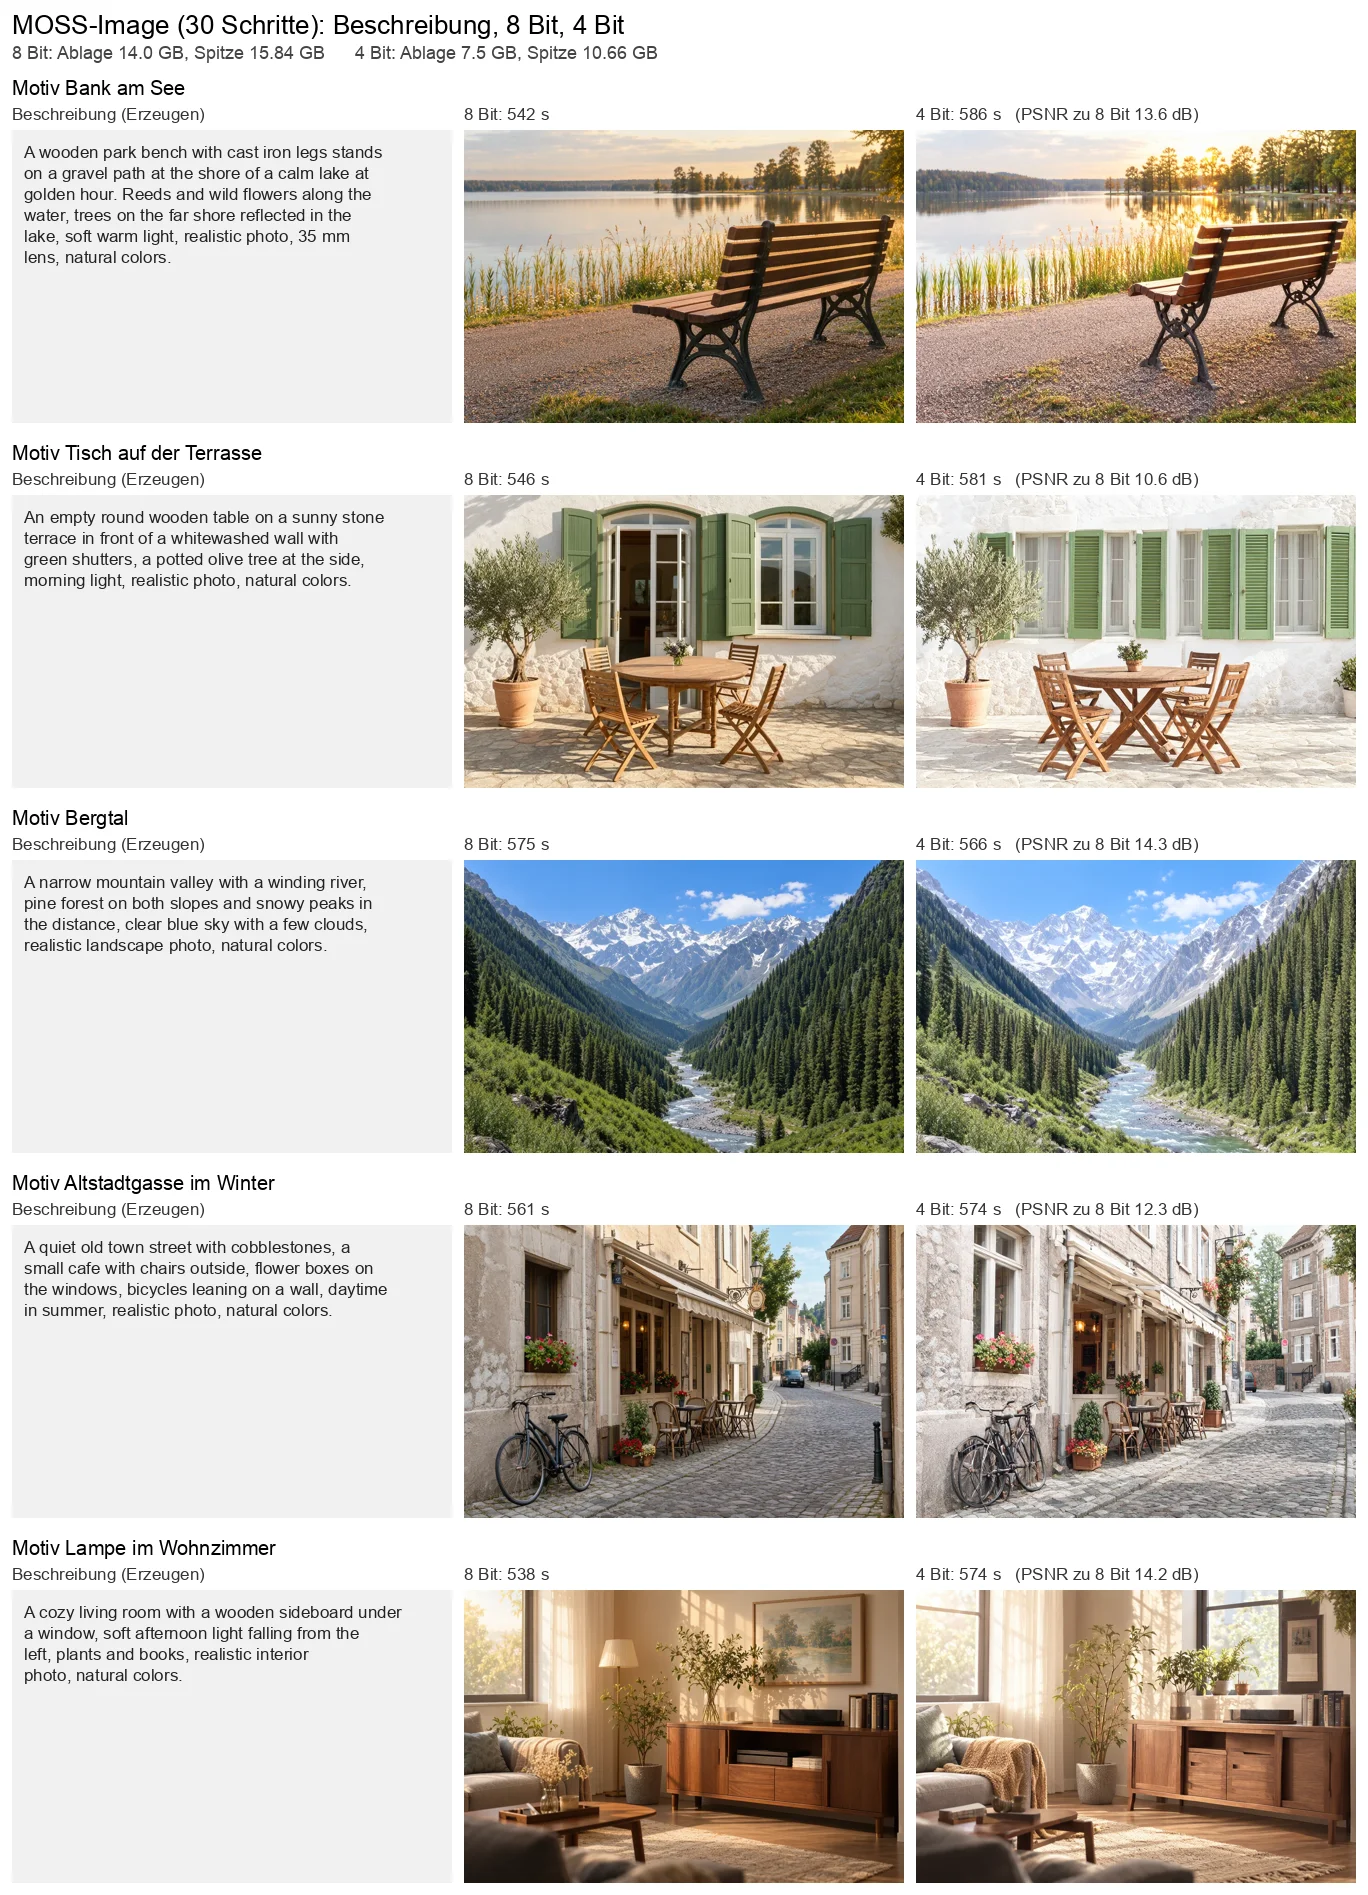
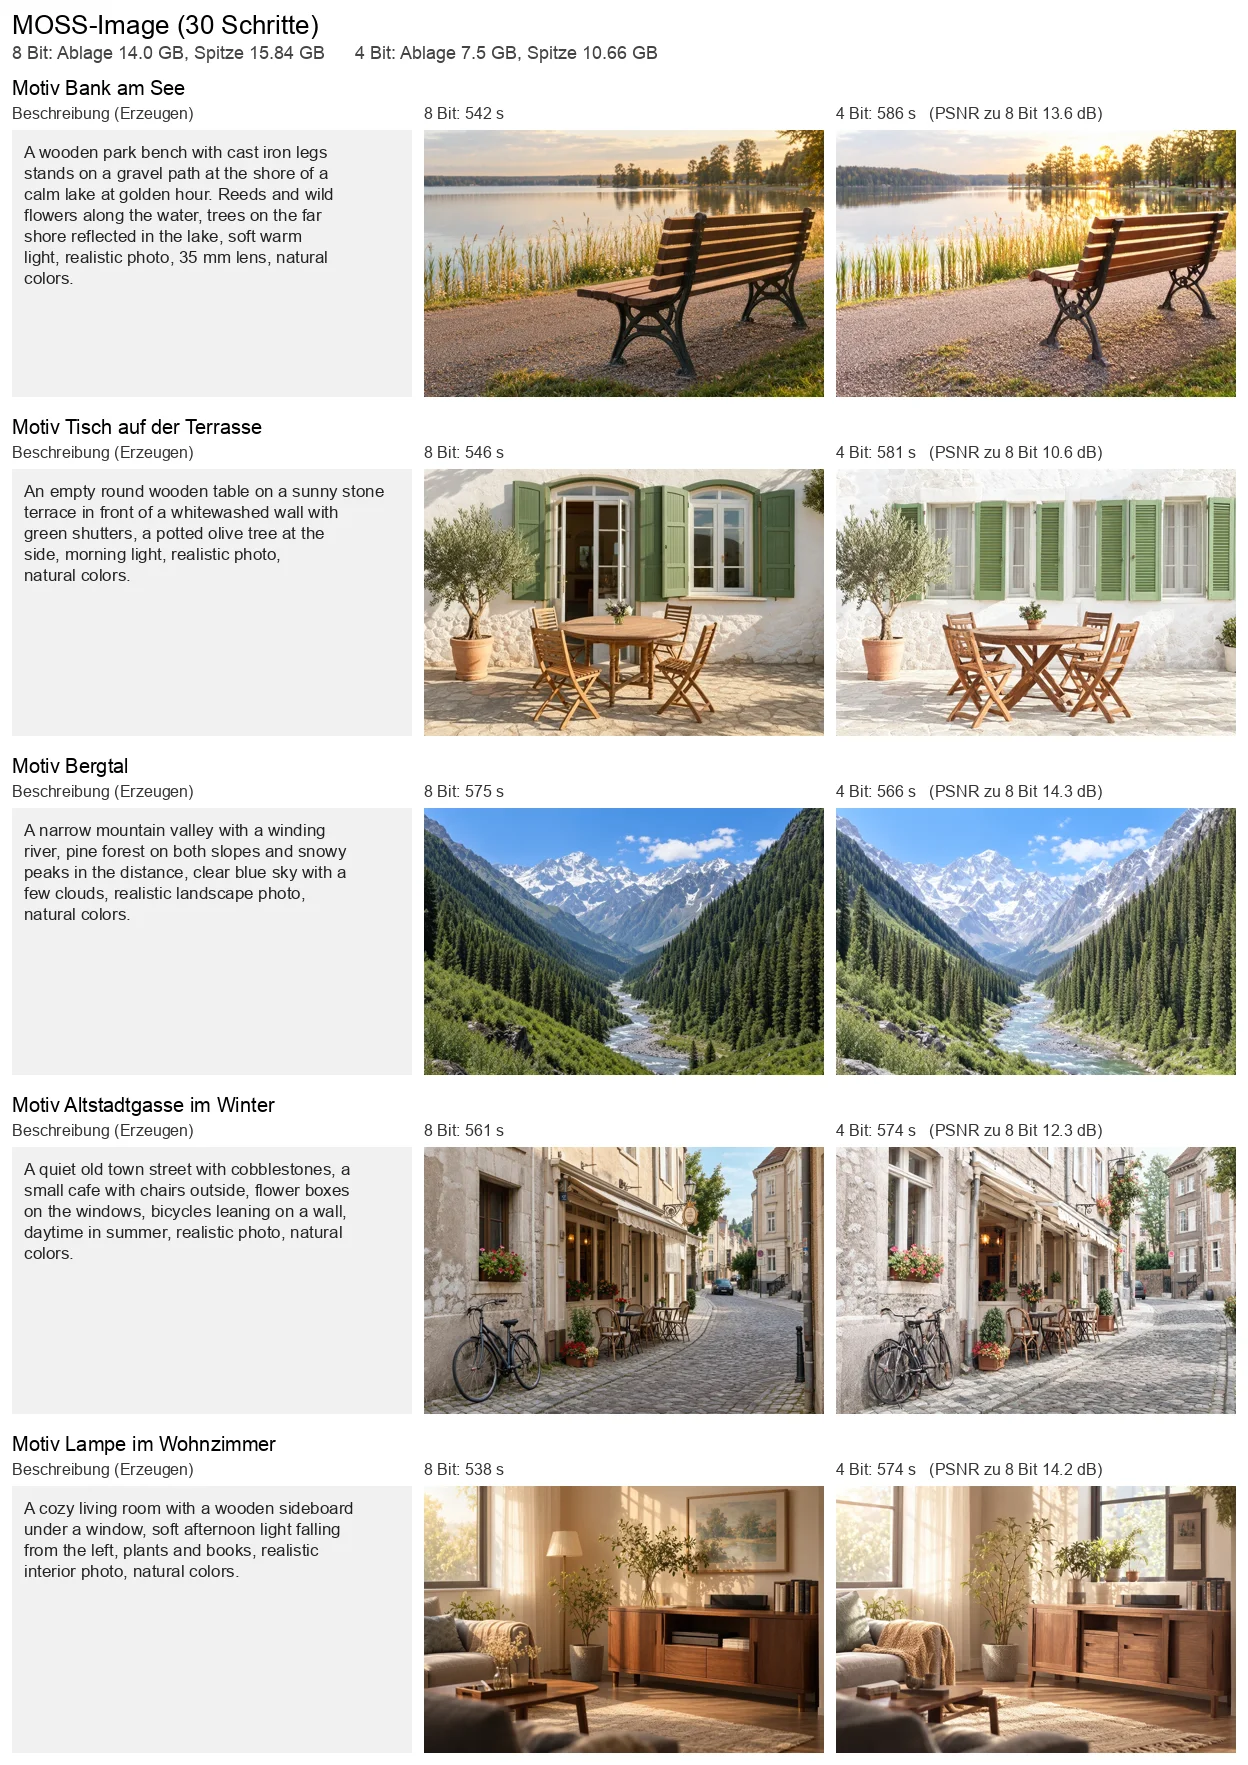
MR-5: Vergleichstafeln zeigen das unmarkierte Ausgangsbild vor der Vorlage

diff --git a/tools/bittafel.py b/tools/bittafel.py
@@ -1,5 +1,7 @@
-"""Vergleichstafel einer Messreihe 4 gegen 8 Bit (tools/bitvergleich.py): je Aufgabe eine Zeile mit dem Ausgang
-(beim Bearbeiten die Vorlage, wie das Modell sie sieht, beim Erzeugen die Beschreibung), daneben 8 Bit und 4 Bit.
+"""Vergleichstafel einer Messreihe 4 gegen 8 Bit (tools/bitvergleich.py), je Aufgabe eine Zeile:
+
+- Bearbeiten: das unmarkierte Ausgangsbild, die Vorlage mit Markierung (was das Modell sieht), 8 Bit, 4 Bit
+- Erzeugen: die Beschreibung, aus der das Modell zeichnet, 8 Bit, 4 Bit
 
     .venv/bin/python tools/bittafel.py bild-fuellen "Qwen-Image 2.1 mit Maske"
 
@@ -12,6 +14,7 @@ import argparse
 import json
 import sys
 import textwrap
+from dataclasses import dataclass
 from pathlib import Path
 
 from PIL import Image, ImageDraw, ImageFont
@@ -22,8 +25,14 @@ import beispiele  # noqa: E402
 ZIEL = beispiele.WURZEL / "docs" / "messungen" / "bits"
 BITS = ("8", "4")
 #: Breite eines Bildes in der Tafel, Abstand dazwischen und Höhe der Beschriftungen
-BREITE, LUECKE, KOPF, ZEILENKOPF, BILDTEXT = 440, 12, 70, 34, 26
+BREITE, LUECKE, KOPF, ZEILENKOPF, BILDTEXT = 400, 12, 70, 34, 26
 SCHRIFTEN = ("/System/Library/Fonts/Supplemental/Arial.ttf", "DejaVuSans.ttf")
+
+
+@dataclass
+class Zelle:
+    text: str
+    bild: Image.Image
 
 
 def schrift(groesse: int) -> ImageFont.FreeTypeFont | ImageFont.ImageFont:
@@ -35,58 +44,79 @@ def schrift(groesse: int) -> ImageFont.FreeTypeFont | ImageFont.ImageFont:
     return ImageFont.load_default(size=groesse)
 
 
-def eingepasst(bild: Image.Image) -> Image.Image:
-    return bild.convert("RGB").resize((BREITE, round(bild.height * BREITE / bild.width)))
+def eingepasst(bild: Image.Image, massstab_breite: int | None = None) -> Image.Image:
+    """Auf Tafelbreite; mit massstab_breite im selben Maßstab wie ein Bild dieser Breite (ein kleineres Ausgangsbild
+    beim Erweitern bleibt so sichtbar kleiner), mittig auf Weiß."""
+    faktor = BREITE / (massstab_breite or bild.width)
+    klein = bild.convert("RGB").resize((round(bild.width * faktor), round(bild.height * faktor)))
+    if klein.width == BREITE:
+        return klein
+    feld = Image.new("RGB", (BREITE, round(klein.height * massstab_breite / bild.width)), "white")
+    feld.paste(klein, ((BREITE - klein.width) // 2, (feld.height - klein.height) // 2))
+    return feld
 
 
-def beschreibung(text: str, hoehe: int) -> Image.Image:
-    """Beim Erzeugen gibt es kein Ausgangsbild: die Beschreibung, aus der das Modell zeichnet."""
+def textfeld(text: str, hoehe: int) -> Image.Image:
     feld = Image.new("RGB", (BREITE, hoehe), "#f1f1f1")
-    zeilen = textwrap.wrap(" ".join(text.split()), width=48)
+    zeilen = textwrap.wrap(" ".join(text.split()), width=44)
     ImageDraw.Draw(feld).multiline_text((12, 12), "\n".join(zeilen), fill="#222", font=schrift(17), spacing=5)
     return feld
+
+
+def ausgang_zellen(aufgabe: str, a: dict, hoehe: int) -> list[Zelle]:
+    """Was vor dem Modell da war: das unmarkierte Ausgangsbild und die Vorlage, wie das Modell sie sieht."""
+    vorlage = Image.open(beispiele.ORDNER / "vorlagen" / f"{aufgabe}.webp")
+    # beispiele legt ein eigenes Ausgangsbild nur ab, wo es sich von der Vorlage unterscheidet; sonst ist es das Motiv
+    eigenes = beispiele.ORDNER / "ausgang" / f"{aufgabe}.webp"
+    if eigenes.is_file():
+        return [Zelle("Ausgangsbild", eingepasst(Image.open(eigenes), vorlage.width)),
+                Zelle("Vorlage (was das Modell sieht)", eingepasst(vorlage))]
+    return [Zelle("Ausgangsbild (so bekommt es das Modell)", eingepasst(vorlage)),
+            Zelle("Keine Markierung, nur die Anweisung", textfeld(a.get("wunsch") or "", hoehe))]
 
 
 def tafel(dienst: str, titel: str) -> Path:
     reihe = json.loads((ZIEL / f"{dienst}.json").read_text(encoding="utf-8"))
     aufgaben = beispiele.lesen()["aufgabe"]
-    namen = [a for a in aufgaben if (ZIEL / dienst / "8bit" / a / f"{dienst}.webp").is_file()]
-    zeilen = []
-    for a in namen:
-        paar = [eingepasst(Image.open(ZIEL / dienst / f"{b}bit" / a / f"{dienst}.webp")) for b in BITS]
+    zeilen: list[tuple[str, list[Zelle]]] = []
+    for name, a in aufgaben.items():
+        if not (ZIEL / dienst / "8bit" / name / f"{dienst}.webp").is_file():
+            continue
+        ab = reihe["abweichung_4_zu_8"].get(name, {})
+        ergebnisse = [Zelle(f"{b} Bit: {reihe['bits'][b]['dauer_s'][name]:.0f} s", eingepasst(
+            Image.open(ZIEL / dienst / f"{b}bit" / name / f"{dienst}.webp"))) for b in BITS]
+        ergebnisse[1].text += f"   (PSNR zu 8 Bit {ab.get('psnr_db')} dB)"
+        hoehe = ergebnisse[0].bild.height
         # bearbeitet: bitvergleich legt je Aufgabe die Angaben des Auftrags daneben; erzeugt: nur das Bild
-        bearbeitet = (ZIEL / dienst / "8bit" / a / f"{dienst}.json").is_file()
-        ausgang = (eingepasst(Image.open(beispiele.ORDNER / "vorlagen" / f"{a}.webp")) if bearbeitet
-                   else beschreibung(aufgaben[a]["motiv"], paar[0].height))
-        zeilen.append((a, bearbeitet, ausgang, paar))
-    zeile_h = ZEILENKOPF + BILDTEXT + max(z[3][0].height for z in zeilen) + LUECKE
-    bild = Image.new("RGB", (3 * BREITE + 4 * LUECKE, KOPF + len(zeilen) * zeile_h), "white")
+        if (ZIEL / dienst / "8bit" / name / f"{dienst}.json").is_file():
+            kopf = f"{a['titel']} ({name})" + (f": {a['wunsch']}" if a.get("wunsch") else "")
+            vorn = ausgang_zellen(name, a, hoehe)
+        else:
+            # beim Erzeugen entsteht nur das Motiv der Aufgabe, ihr Wunsch gilt erst beim Bearbeiten
+            kopf, vorn = f"Motiv {a['titel']}", [Zelle("Beschreibung (Erzeugen)", textfeld(a["motiv"], hoehe))]
+        zeilen.append((kopf, vorn + ergebnisse))
+    spalten = max(len(z) for _, z in zeilen)
+    zeile_h = ZEILENKOPF + BILDTEXT + max(c.bild.height for _, z in zeilen for c in z) + LUECKE
+    bild = Image.new("RGB", (spalten * BREITE + (spalten + 1) * LUECKE, KOPF + len(zeilen) * zeile_h), "white")
     d = ImageDraw.Draw(bild)
     d.text((LUECKE, 10), titel, fill="black", font=schrift(26))
     werte = "      ".join(f"{b} Bit: Ablage {reihe['bits'][b]['ablage_gb']} GB, Spitze {reihe['bits'][b]['spitze_gb']} GB"
                           for b in BITS)
     d.text((LUECKE, 42), werte, fill="#444", font=schrift(18))
-    for i, (a, bearbeitet, ausgang, paar) in enumerate(zeilen):
+    for i, (kopf, zellen) in enumerate(zeilen):
         y = KOPF + i * zeile_h
-        # beim Erzeugen entsteht nur das Motiv der Aufgabe, ihr Wunsch gilt erst beim Bearbeiten
-        wunsch = aufgaben[a].get("wunsch") if bearbeitet else ""
-        kopf = f"{aufgaben[a]['titel']} ({a})" if bearbeitet else f"Motiv {aufgaben[a]['titel']}"
-        d.text((LUECKE, y + 6), kopf + (f": {wunsch}" if wunsch else ""), fill="black", font=schrift(20))
-        ab = reihe["abweichung_4_zu_8"].get(a, {})
-        texte = ["Ausgang, wie das Modell es sieht" if bearbeitet else "Beschreibung (Erzeugen)"]
-        texte += [f"{b} Bit: {reihe['bits'][b]['dauer_s'][a]:.0f} s" for b in BITS]
-        texte[2] += f"   (PSNR zu 8 Bit {ab.get('psnr_db')} dB)"
-        for s, (text, teil) in enumerate(zip(texte, [ausgang, *paar])):
+        d.text((LUECKE, y + 6), kopf, fill="black", font=schrift(20))
+        for s, zelle in enumerate(zellen):
             x = LUECKE + s * (BREITE + LUECKE)
-            d.text((x, y + ZEILENKOPF), text, fill="#333", font=schrift(17))
-            bild.paste(teil, (x, y + ZEILENKOPF + BILDTEXT))
+            d.text((x, y + ZEILENKOPF), zelle.text, fill="#333", font=schrift(16))
+            bild.paste(zelle.bild, (x, y + ZEILENKOPF + BILDTEXT))
     ziel = ZIEL / f"{dienst}-tafel.webp"
     bild.save(ziel, quality=85)
     return ziel
 
 
 def main() -> int:
-    p = argparse.ArgumentParser(description="Vergleichstafel einer Messreihe 4 gegen 8 Bit mit Ausgang")
+    p = argparse.ArgumentParser(description="Vergleichstafel einer Messreihe 4 gegen 8 Bit mit Ausgangsbild")
     p.add_argument("dienst", help="Kennung der Reihe, etwa bild-fuellen")
     p.add_argument("titel", help="Überschrift, etwa der Name des Modells")
     a = p.parse_args()
